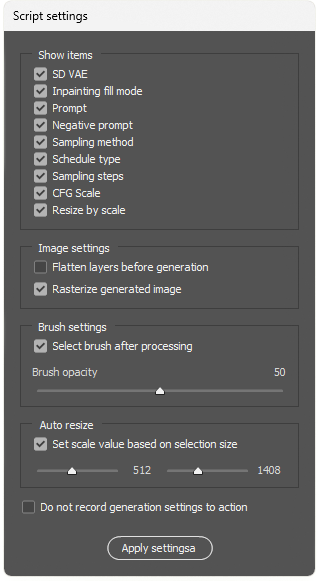
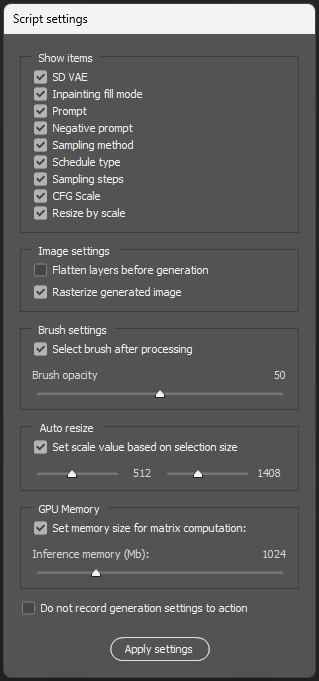
added GPU memory control

Changed region(s): [[0.0, 0.0, 1.0, 1.0]]

diff --git a/SD Helper.jsx b/SD Helper.jsx
@@ -14,7 +14,7 @@
 </javascriptresource>
 // END__HARVEST_EXCEPTION_ZSTRING
 */
-const ver = 0.32,
+const ver = 0.34,
     SD_HOST = '127.0.0.1',
     SD_PORT = 7860,
     API_HOST = '127.0.0.1',
@@ -121,7 +121,8 @@ function init() {
 function main(selection) {
     var checkpoint = (cfg.sd_model_checkpoint == SD['sd_model_checkpoint'] ? null : findOption(cfg.sd_model_checkpoint, SD['sd-models'], SD['sd_model_checkpoint'])),
         vae = (cfg.current.sd_vae == SD['sd_vae'] ? null : findOption(cfg.current.sd_vae, SD['sd-vaes'], SD['sd_vae'])),
-        encoders = checkEncoders(cfg.current.encoders, SD['forge_additional_modules'], SD['sd_modules']);
+        encoders = checkEncoders(cfg.current.encoders, SD['forge_additional_modules'], SD['sd_modules']),
+        memory = cfg.control_memory ? (SD['forge_inference_memory'] == cfg.forge_inference_memory ? null : cfg.forge_inference_memory) : (SD['forge_inference_memory'] == cfg.forge_inference_memory_default ? null : cfg.forge_inference_memory_default);
     if (checkpoint != cfg.sd_model_checkpoint && checkpoint != null) cfg.sd_model_checkpoint = checkpoint
     if (selection.previousGeneration) doc.hideSelectedLayers()
     if (doc.getProperty('quickMask')) {
@@ -171,10 +172,10 @@ function main(selection) {
     doc.setProperty('center', c);
     var p = (new Folder(Folder.temp + '/outputs/img2img-images'))
     if (!p.exists) p.create()
-    if (checkpoint || (cfg.sd_model_checkpoint.toLocaleUpperCase().indexOf('.GGUF') == -1 ? vae : encoders)) {
+    if (checkpoint || (cfg.sd_model_checkpoint.toLocaleUpperCase().indexOf('FLUX') == -1 ? vae : encoders) || memory) {
         var vae_path = [];
         if (SD.forgeUI) {
-            if (cfg.sd_model_checkpoint.toLocaleUpperCase().indexOf('.GGUF') == -1) {
+            if (cfg.sd_model_checkpoint.toLocaleUpperCase().indexOf('FLUX') == -1) {
                 for (var i = 0; i < SD['sd_modules'].length; i++) {
                     if (SD['sd_modules'][i].indexOf(cfg.current.sd_vae) != -1) {
                         vae_path.push(SD['sd_modules'][i])
@@ -185,7 +186,7 @@ function main(selection) {
         }
         changeProgressText(str.progressUpdating[$.locale == 'ru' ? 'ru' : 'en'])
         updateProgress(0.1, 1)
-        if (!SD.setOptions(checkpoint, vae, vae_path)) throw new Error(str.errUpdating)
+        if (!SD.setOptions(checkpoint, vae, vae_path, memory)) throw new Error(str.errUpdating)
     }
     changeProgressText(str.progressGenerate[$.locale == 'ru' ? 'ru' : 'en'])
     if (cfg.autoResize && !isDitry) cfg.current.resize = autoScale(selection.bounds)
@@ -351,7 +352,7 @@ function dialogWindow(b, s) {
             var grVae = p.add("group{orientation:'column',alignChildren:['fill', 'center'],spacing:0,margins:0}"),
                 stVae = grVae.add('statictext');
             stVae.text = str.vae;
-            if (cfg.sd_model_checkpoint.toLocaleUpperCase().indexOf('.GGUF') == -1) {
+            if (cfg.sd_model_checkpoint.toLocaleUpperCase().indexOf('FLUX') == -1) {
                 var dlVae = grVae.add('dropdownlist{preferredSize:[285,-1]}')
                 if (SD['sd-vaes'].length) for (var i = 0; i < SD['sd-vaes'].length; i++) dlVae.add('item', SD['sd-vaes'][i])
                 dlVae.onChange = function () {
@@ -564,8 +565,36 @@ function dialogWindow(b, s) {
             stLess = grLess.add('statictext{preferredSize:[30,-1],justify:"right"}'),
             grAbove = grResizeSl.add("group{orientation:'row',alignChildren:['left', 'center'],spacing:0,margins:0,preferredSize:[100,-1]}"),
             slAbove = grAbove.add('slider{minvalue:1024,maxvalue:2048,preferredSize:[90,-1]}'),
-            stAbove = grAbove.add('statictext{preferredSize:[30,-1],justify:"right"}'),
-            chRecordSettings = w.add('checkbox'),
+            stAbove = grAbove.add('statictext{preferredSize:[30,-1],justify:"right"}');
+        if (SD.forgeUI) {
+            var pnMemory = w.add("panel{orientation:'column',alignChildren:['fill', 'top'],spacing:10,margins:10}"),
+                chMemory = pnMemory.add('checkbox'),
+                grMemory = pnMemory.add("group{orientation:'column',alignChildren:['fill', 'center'],spacing:5,margins:0}"),
+                grMemoryTitle = grMemory.add("group{orientation:'row',alignChildren:['left', 'center'],spacing:10,margins:0}"),
+                stMemoryTitle = grMemoryTitle.add('statictext{preferredSize:[180,-1]}'),
+                stMemoryValue = grMemoryTitle.add('statictext{preferredSize:[65,-1],justify:"right"}'),
+                slMemory = grMemory.add('slider{minvalue:128,maxvalue:4096}');
+            pnMemory.text = str.memory
+            chMemory.text = str.setMatrixMemory
+            stMemoryTitle.text = str.setMemory
+            grMemory.enabled = chMemory.value = cfg.control_memory
+            slMemory.value = stMemoryValue.text = cfg.forge_inference_memory
+            slMemory.addEventListener('keydown', memoryHandler)
+            slMemory.onChange = function () { stMemoryValue.text = cfg.forge_inference_memory = mathTrunc(this.value / 32) * 32 }
+            slMemory.onChanging = function () { slMemory.onChange() }
+            slMemory.addEventListener('keydown', resizeHandler)
+            chMemory.onClick = function () { cfg.control_memory = grMemory.enabled = this.value }
+            function memoryHandler(evt) {
+                if (evt.shiftKey) {
+                    if (evt.keyIdentifier == 'Right' || evt.keyIdentifier == 'Up') {
+                        evt.target.value = Math.floor(evt.target.value / 256) * 256 + 255
+                    } else if (evt.keyIdentifier == 'Left' || evt.keyIdentifier == 'Down') {
+                        evt.target.value = Math.ceil(evt.target.value / 256) * 256 - 255
+                    }
+                }
+            }
+        }
+        var chRecordSettings = w.add('checkbox'),
             grBn = w.add("group{orientation:'row',alignChildren:['center', 'center'],spacing:10,margins:[0, 10, 0, 0]}"),
             ok = grBn.add('button', undefined, undefined, { name: 'ok' });
         chAutoResize.text = str.autoResizeCaption
@@ -794,6 +823,7 @@ function SDApi(sdHost, apiHost, sdPort, portSend, portListen, apiFile) {
                 SdCfg.forgeUI = true;
                 SdCfg['forge_additional_modules'] = [];
                 for (var i = 0; i < result['forge_additional_modules'].length; i++) SdCfg['forge_additional_modules'].push(result['forge_additional_modules'][i].replace(/\\/g, '\\\\'))
+                SdCfg['forge_inference_memory'] = result['forge_inference_memory']
             }
         } else { throw new Error(str.errSettings + 'sdapi/v1/options' + str.errTimeout) }
         var result = sendMessage({ type: 'get', message: 'sdapi/v1/sd-models' }, true);
@@ -832,11 +862,14 @@ function SDApi(sdHost, apiHost, sdPort, portSend, portListen, apiFile) {
     this.exit = function () {
         sendMessage({ type: 'exit' })
     }
-    this.setOptions = function (checkpoint, vae, vae_path) {
+    this.setOptions = function (checkpoint, vae, vae_path, memory) {
         var message = {}
         message['sd_model_checkpoint'] = checkpoint ? checkpoint.replace(/\\/g, '\\\\') : null
         if (!SdCfg.forgeUI) message['sd_vae'] = vae
-        if (SdCfg.forgeUI) message['forge_additional_modules'] = vae_path
+        if (SdCfg.forgeUI) {
+            message['forge_additional_modules'] = vae_path
+            message['forge_inference_memory'] = memory
+        }
         if (sendMessage({ type: 'update', message: message }, true, SD_RELOAD_CHECKPOINT_DELAY)) return true
         return false;
     }
@@ -1140,6 +1173,9 @@ function Config() {
     this.autoResizeLess = 512
     this.autoResizeAbove = 1408
     this.positivePreset = {}
+    this.control_memory = false
+    this.forge_inference_memory = 1024
+    this.forge_inference_memory_default = 1024
     this.negativePreset = {
         "SD": '(deformed, distorted, disfigured:1.3), poorly drawn, bad anatomy, wrong anatomy, extra limb, missing limb, floating limbs, (mutated hands and fingers:1.4), disconnected limbs, mutation, mutated, ugly, disgusting, blurry, amputation',
         "Realistic": '(deformed iris, deformed pupils, semi-realistic, cgi, 3d, render, sketch, cartoon, drawing, anime), text, cropped, out of frame, worst quality, low quality, jpeg artifacts, ugly, duplicate, morbid, mutilated, extra fingers, mutated hands, poorly drawn hands, poorly drawn face, mutation, deformed, blurry, dehydrated, bad anatomy, bad proportions, extra limbs, cloned face, disfigured, gross proportions, malformed limbs, missing arms, missing legs, extra arms, extra legs, fused fingers, too many fingers, long neck'
@@ -1290,7 +1326,7 @@ function Config() {
 function Locale() {
     this.actionMode = { ru: 'Не записывать параметры генерации в экшен', en: 'Do not record generation settings to action' }
     this.addVae = { ru: '+ добавить VAE/TextEncoder', en: '+ add VAE/TextEncoder' }
-    this.apply = { ru: 'Применить настройки', en: 'Apply settingsa' }
+    this.apply = { ru: 'Применить настройки', en: 'Apply settings' }
     this.autoResize = { ru: 'Авто масштаб', en: 'Auto resize' }
     this.autoResizeCaption = { ru: 'Масштаб зависит от размера выделения', en: 'Set scale value based on selection size' }
     this.brush = { ru: 'Настройки кисти', en: 'Brush settings' }
@@ -1344,4 +1380,7 @@ function Locale() {
     this.strength = 'Denoising strength'
     this.translate = { ru: 'перевести: ', en: 'translate: ' }
     this.vae = 'SD VAE'
+    this.memory = { ru: 'Память GPU', en: 'GPU Memory' }
+    this.setMatrixMemory = { ru: 'Установить размер памяти для вычисления матриц:', en: 'Set memory size for matrix computation:' }
+    this.setMemory = "Inference memory (Mb):"
 }

diff --git a/readme.md b/readme.md
@@ -109,6 +109,7 @@ set COMMANDLINE_ARGS=--api
   * * `Rasterize generated image` - после окончания генерации скрипт помещает полученный фрагмент на новый слой. Опция определяет будет ли этот слой растеризован или вставлен как смарт-объект
 * `Brush settings`- после вставки сгенерированного изображения на новый слой скрипт автоматически создает для него маску слоя. `Select brush after processing` определяет нужно ли автоматически активировать инструмент `brush` после создания маски, а `brush opacity` указывает какую непрозрачность кисти нужно установить
 * `Auto resize` - при включении `Set scale value based on selection size`позволяет автоматически подбирать масштаб генерируемого изображения в зависимости от размеров активного выделения
+* `Set memory size for matrix computation` - опция позволяет управлять размером памяти, выделяемом для расчета матриц преобразования (вся остальная память GPU используется непосредственно для загрузки модели)
 * `Do not record generation settings to action` - опция позволяющая записывать скрипт в экшены в режиме 'bypass'. При отключенной опции в экшен записываются все текущие настройки скрипта, что позволяет хранить их отдельно от основных настроек и использовать при генерации. При включенной опции экшен просто запускает скрипт, его настройки не хранятся в палитре экшенов, вместо этого используются текущие
 
 ### Файл настроек
